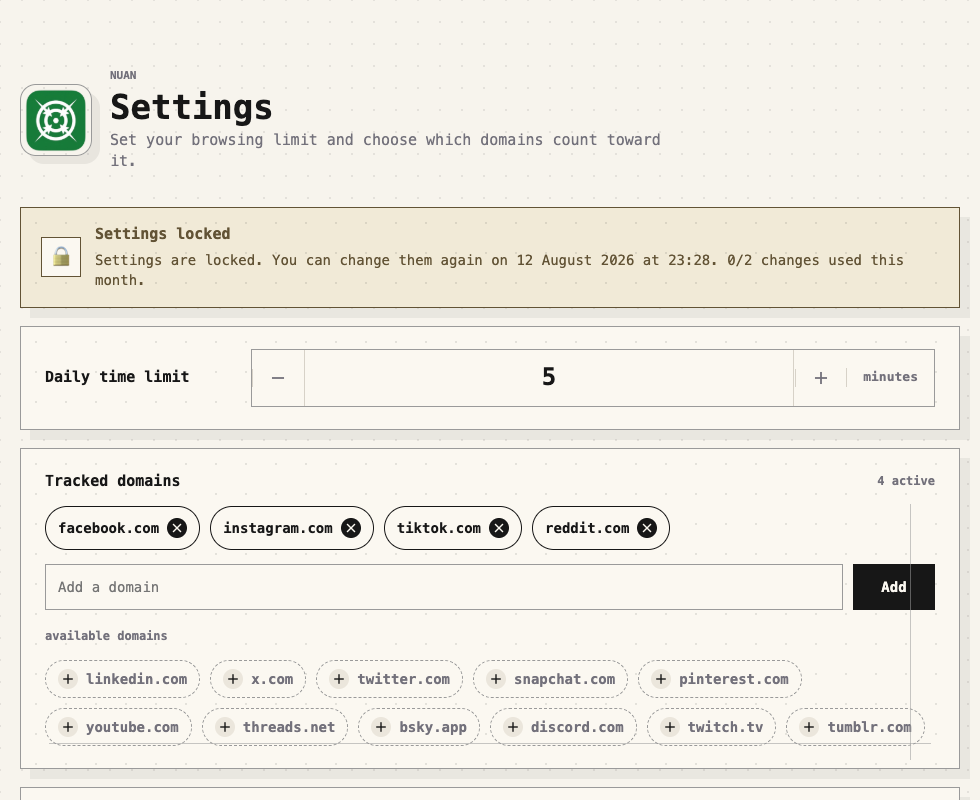
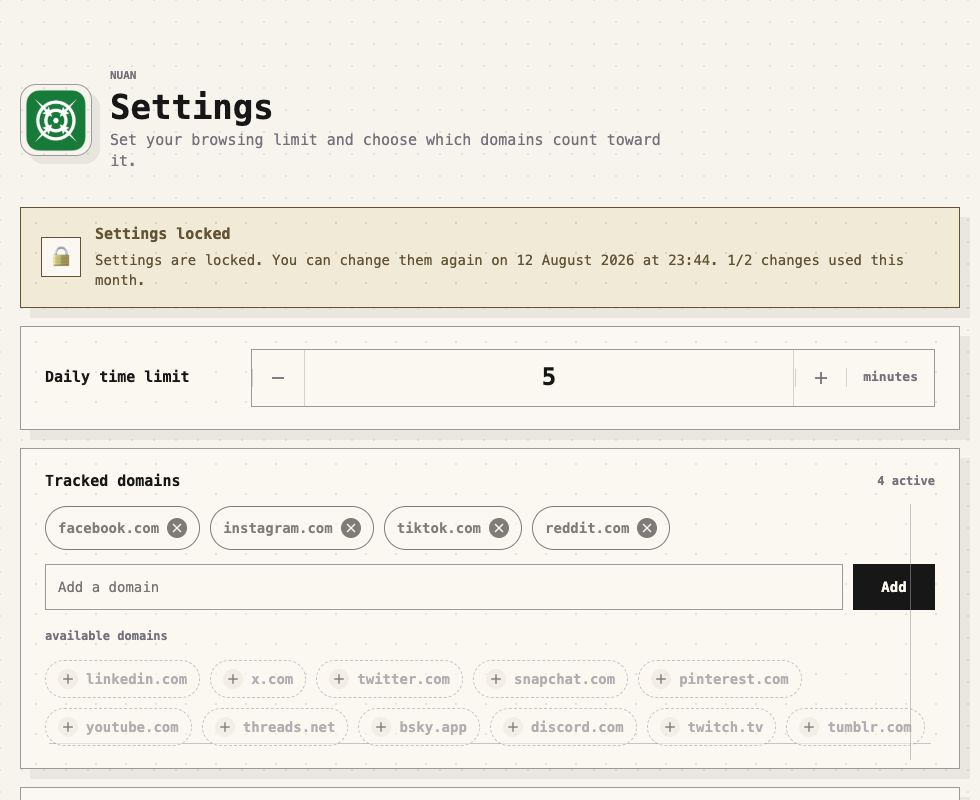
refactor: apply settings-lock review improvements
- background: coalesce settings+settingsLock write; pass fresh updatedLock to summary; prefer shared lock constants with literal fallbacks
- core.js: monthly block reports start of next month as nextChangeAt; cap lastChangeAt to now in normalizer
- options: add role=status to lock banner, toggle data-locked on domains card, parallel settings fetch with non-blocking lock load
- tests: add applySettingsChange rollover unit test and monthly-limit e2e test; derive monthKey from current date
- capture script: wait for lock banner visibility
- docs: runtimeCache mirrors seven storage keys

diff --git a/src/background/background.js b/src/background/background.js
@@ -67,8 +67,8 @@ const DEFAULT_STATE = {
 };
 
 const RESET_INTERVAL_MS = 6 * 60 * 60 * 1000;
-const SETTINGS_CHANGE_LOCK_WEEK_MS = 7 * 24 * 60 * 60 * 1000;
-const SETTINGS_CHANGE_MONTH_LIMIT = 2;
+const SETTINGS_CHANGE_LOCK_WEEK_MS = Logic.SETTINGS_CHANGE_LOCK_WEEK_MS || (7 * 24 * 60 * 60 * 1000);
+const SETTINGS_CHANGE_MONTH_LIMIT = Logic.SETTINGS_CHANGE_MONTH_LIMIT || 2;
 const LEGACY_TICK_ALARM = "social-media-time-guard-tick";
 const ACTIVE_SYNC_ALARM = "nuan-active-sync";
 const SOCIAL_ENFORCE_ALARM = "nuan-social-enforce";
@@ -449,15 +449,13 @@ async function saveSettings(rawSettings) {
     };
   }
 
-  await setStorageIfChanged({ settings });
-
   const updatedLock = Logic.applySettingsChange
     ? Logic.applySettingsChange(runtimeCache.settingsLock, now)
     : applySettingsChangeFallback(runtimeCache.settingsLock, now);
-  await setStorageIfChanged({ settingsLock: updatedLock });
+  await setStorageIfChanged({ settings, settingsLock: updatedLock });
 
   await processActiveContext({ reason: "settings-saved" });
-  return { ok: true, settings, lock: await getLockSummary(now) };
+  return { ok: true, settings, lock: await getLockSummary(now, updatedLock) };
 }
 
 async function saveBrowsingAnalyticsSettings(rawSettings = {}) {
@@ -1119,31 +1117,30 @@ function normalizeSettings(settings = {}) {
   };
 }
 
-function computeMonthlyUsed(now = Date.now()) {
-  const lock = runtimeCache?.settingsLock || DEFAULT_SETTINGS_LOCK;
+function computeMonthlyUsed(now = Date.now(), lock = runtimeCache?.settingsLock || DEFAULT_SETTINGS_LOCK) {
   const currentMonth = Logic.getMonthKey
     ? Logic.getMonthKey(now)
     : getMonthKeyFallback(now);
   return lock.monthKey === currentMonth ? lock.monthlyChanges : 0;
 }
 
-async function getLockSummary(now = Date.now()) {
+async function getLockSummary(now = Date.now(), lock = runtimeCache.settingsLock) {
   const check = Logic.isSettingsChangeAllowed
-    ? Logic.isSettingsChangeAllowed(runtimeCache.settingsLock, now)
-    : isSettingsChangeAllowedFallback(runtimeCache.settingsLock, now);
+    ? Logic.isSettingsChangeAllowed(lock, now)
+    : isSettingsChangeAllowedFallback(lock, now);
   return {
     allowed: check.allowed,
     reason: check.reason,
     nextChangeAt: check.nextChangeAt,
     monthKey: check.monthKey,
-    monthlyUsed: computeMonthlyUsed(now),
+    monthlyUsed: computeMonthlyUsed(now, lock),
     monthlyLimit: SETTINGS_CHANGE_MONTH_LIMIT
   };
 }
 
-function normalizeSettingsLock(lock) {
+function normalizeSettingsLock(lock, now = Date.now()) {
   if (Logic.normalizeSettingsLock) {
-    return Logic.normalizeSettingsLock(lock);
+    return Logic.normalizeSettingsLock(lock, now);
   }
 
   const normalized = {
@@ -1151,7 +1148,8 @@ function normalizeSettingsLock(lock) {
     monthlyChanges: 0,
     monthKey: null
   };
-  normalized.lastChangeAt = Number.isFinite(lock?.lastChangeAt) ? Math.max(0, lock.lastChangeAt) : null;
+  const rawLastChangeAt = Number.isFinite(lock?.lastChangeAt) ? Math.max(0, lock.lastChangeAt) : null;
+  normalized.lastChangeAt = rawLastChangeAt === null ? null : Math.min(rawLastChangeAt, now);
   normalized.monthlyChanges = Math.max(0, Number.parseInt(lock?.monthlyChanges, 10) || 0);
   normalized.monthKey =
     typeof lock?.monthKey === "string" && /^\d{4}-\d{2}$/.test(lock.monthKey) ? lock.monthKey : null;
@@ -1163,13 +1161,18 @@ function getMonthKeyFallback(now = Date.now()) {
   return `${date.getFullYear()}-${String(date.getMonth() + 1).padStart(2, "0")}`;
 }
 
+function getNextMonthStartFallback(now = Date.now()) {
+  const date = new Date(now);
+  return new Date(date.getFullYear(), date.getMonth() + 1, 1, 0, 0, 0, 0).getTime();
+}
+
 function isSettingsChangeAllowedFallback(lock, now = Date.now()) {
-  const normalized = normalizeSettingsLock(lock);
+  const normalized = normalizeSettingsLock(lock, now);
   const monthKey = getMonthKeyFallback(now);
   const monthlyChanges = normalized.monthKey === monthKey ? normalized.monthlyChanges : 0;
 
   if (monthlyChanges >= SETTINGS_CHANGE_MONTH_LIMIT) {
-    return { allowed: false, reason: "monthly", nextChangeAt: null, monthKey };
+    return { allowed: false, reason: "monthly", nextChangeAt: getNextMonthStartFallback(now), monthKey };
   }
 
   if (normalized.lastChangeAt && now < normalized.lastChangeAt + SETTINGS_CHANGE_LOCK_WEEK_MS) {
@@ -1180,7 +1183,7 @@ function isSettingsChangeAllowedFallback(lock, now = Date.now()) {
 }
 
 function applySettingsChangeFallback(lock, now = Date.now()) {
-  const normalized = normalizeSettingsLock(lock);
+  const normalized = normalizeSettingsLock(lock, now);
   const monthKey = getMonthKeyFallback(now);
   normalized.monthlyChanges = (normalized.monthKey === monthKey ? normalized.monthlyChanges : 0) + 1;
   normalized.monthKey = monthKey;

diff --git a/tests/e2e/extension-smoke.spec.js b/tests/e2e/extension-smoke.spec.js
@@ -61,9 +61,11 @@ test("settings lock keeps values visible but disables editing", async ({ extensi
 
   await options.evaluate(async () => {
     const now = Date.now();
+    const current = new Date();
+    const monthKey = `${current.getFullYear()}-${String(current.getMonth() + 1).padStart(2, "0")}`;
     await chrome.storage.local.set({
       settings: { limitMinutes: 5, domains: ["facebook.com", "instagram.com"] },
-      settingsLock: { lastChangeAt: now - 1000, monthlyChanges: 1, monthKey: "2099-12" }
+      settingsLock: { lastChangeAt: now - 1000, monthlyChanges: 1, monthKey }
     });
   });
   await options.reload();
@@ -76,6 +78,28 @@ test("settings lock keeps values visible but disables editing", async ({ extensi
   await expect(options.locator("form button[type='submit']")).toBeDisabled();
 });
 
+test("settings lock shows monthly-limit banner when monthly cap is reached", async ({ extensionPage }) => {
+  const options = await extensionPage("src/ui/options/options.html");
+  await clearExtensionStorage(options);
+  await options.reload();
+
+  await options.evaluate(async () => {
+    const now = Date.now();
+    const current = new Date();
+    const monthKey = `${current.getFullYear()}-${String(current.getMonth() + 1).padStart(2, "0")}`;
+    await chrome.storage.local.set({
+      settings: { limitMinutes: 5, domains: ["facebook.com", "instagram.com"] },
+      settingsLock: { lastChangeAt: now - 10 * 24 * 60 * 60 * 1000, monthlyChanges: 2, monthKey }
+    });
+  });
+  await options.reload();
+
+  await expect(options.locator("#settingsLockBanner")).toBeVisible();
+  await expect(options.locator("#settingsLockBanner")).toContainText("2/2");
+  await expect(options.locator("#limitMinutes")).toBeDisabled();
+  await expect(options.locator("form button[type='submit']")).toBeDisabled();
+});
+
 test("settings lock allows a change after the weekly window", async ({ extensionPage }) => {
   const options = await extensionPage("src/ui/options/options.html");
   await clearExtensionStorage(options);
@@ -83,9 +107,11 @@ test("settings lock allows a change after the weekly window", async ({ extension
 
   await options.evaluate(async () => {
     const now = Date.now();
+    const current = new Date();
+    const monthKey = `${current.getFullYear()}-${String(current.getMonth() + 1).padStart(2, "0")}`;
     await chrome.storage.local.set({
       settings: { limitMinutes: 5, domains: ["facebook.com", "instagram.com"] },
-      settingsLock: { lastChangeAt: now - 10 * 24 * 60 * 60 * 1000, monthlyChanges: 0, monthKey: "2099-12" }
+      settingsLock: { lastChangeAt: now - 10 * 24 * 60 * 60 * 1000, monthlyChanges: 0, monthKey }
     });
   });
   await options.reload();

diff --git a/src/shared/logic/core.js b/src/shared/logic/core.js
@@ -375,6 +375,11 @@
     return `${date.getFullYear()}-${String(date.getMonth() + 1).padStart(2, "0")}`;
   }
 
+  function getNextMonthStart(now = Date.now()) {
+    const date = new Date(now);
+    return new Date(date.getFullYear(), date.getMonth() + 1, 1, 0, 0, 0, 0).getTime();
+  }
+
   function createDefaultSettingsLock() {
     return {
       lastChangeAt: null,
@@ -383,9 +388,10 @@
     };
   }
 
-  function normalizeSettingsLock(lock = {}) {
+  function normalizeSettingsLock(lock = {}, now = Date.now()) {
     const normalized = createDefaultSettingsLock();
-    normalized.lastChangeAt = Number.isFinite(lock.lastChangeAt) ? Math.max(0, lock.lastChangeAt) : null;
+    const rawLastChangeAt = Number.isFinite(lock.lastChangeAt) ? Math.max(0, lock.lastChangeAt) : null;
+    normalized.lastChangeAt = rawLastChangeAt === null ? null : Math.min(rawLastChangeAt, now);
     normalized.monthlyChanges = Math.max(0, Number.parseInt(lock.monthlyChanges, 10) || 0);
     normalized.monthKey = typeof lock.monthKey === "string" && /^\d{4}-\d{2}$/.test(lock.monthKey)
       ? lock.monthKey
@@ -394,7 +400,7 @@
   }
 
   function isSettingsChangeAllowed(lock, now = Date.now()) {
-    const normalized = normalizeSettingsLock(lock);
+    const normalized = normalizeSettingsLock(lock, now);
     const monthKey = getMonthKey(now);
     const monthlyChanges = normalized.monthKey === monthKey ? normalized.monthlyChanges : 0;
 
@@ -402,7 +408,7 @@
       return {
         allowed: false,
         reason: "monthly",
-        nextChangeAt: null,
+        nextChangeAt: getNextMonthStart(now),
         monthKey
       };
     }
@@ -425,7 +431,7 @@
   }
 
   function applySettingsChange(lock, now = Date.now()) {
-    const normalized = normalizeSettingsLock(lock);
+    const normalized = normalizeSettingsLock(lock, now);
     const monthKey = getMonthKey(now);
     const monthlyChanges = normalized.monthKey === monthKey ? normalized.monthlyChanges : 0;
 
@@ -452,6 +458,7 @@
     getMonthKey,
     getNextBrowsingBoundary,
     getNextLocalDayStart,
+    getNextMonthStart,
     getNoUseStreakDays,
     isExcludedDomain,
     isSettingsChangeAllowed,

diff --git a/src/ui/options/options.js b/src/ui/options/options.js
@@ -174,11 +174,11 @@ document.addEventListener("keydown", (event) => {
 async function loadSettings() {
   let settings;
   let browsingSettings;
-  let lock;
   try {
-    settings = await NuanRuntime.sendMessage({ type: "getSettings" });
-    browsingSettings = await NuanRuntime.sendMessage({ type: "getBrowsingSettings" });
-    lock = await NuanRuntime.sendMessage({ type: "getSettingsLock" });
+    [settings, browsingSettings] = await Promise.all([
+      NuanRuntime.sendMessage({ type: "getSettings" }),
+      NuanRuntime.sendMessage({ type: "getBrowsingSettings" })
+    ]);
   } catch (error) {
     const errorMessage = error?.message || "Unable to load settings.";
     message.textContent = errorMessage;
@@ -192,6 +192,13 @@ async function loadSettings() {
   browsingAnalyticsEnabled.checked = browsingSettings.enabled;
   excludedDomains.value = browsingSettings.excludedDomains.join("\n");
   renderDomains();
+
+  let lock;
+  try {
+    lock = await NuanRuntime.sendMessage({ type: "getSettingsLock" });
+  } catch (_error) {
+    return;
+  }
 
   if (lock?.ok) {
     lockState = { allowed: lock.allowed, monthlyUsed: lock.monthlyUsed, monthlyLimit: lock.monthlyLimit, nextChangeAt: lock.nextChangeAt };
@@ -365,6 +372,15 @@ function applyLockState() {
   const submitButton = form.querySelector("button[type='submit']");
   if (submitButton) {
     submitButton.disabled = locked;
+  }
+
+  const domainsCard = form.querySelector(".domains-card");
+  if (domainsCard) {
+    if (locked) {
+      domainsCard.dataset.locked = "true";
+    } else {
+      delete domainsCard.dataset.locked;
+    }
   }
 
   if (!locked) {

diff --git a/scripts/capture-options-screenshots.js b/scripts/capture-options-screenshots.js
@@ -43,13 +43,16 @@ const outDir = path.resolve(__dirname, "../resources/screenshots");
   // Locked state
   await page.evaluate(async () => {
     const now = Date.now();
+    const current = new Date();
+    const monthKey = `${current.getFullYear()}-${String(current.getMonth() + 1).padStart(2, "0")}`;
     await chrome.storage.local.set({
       settings: { limitMinutes: 5, domains: ["facebook.com", "instagram.com", "tiktok.com", "reddit.com"] },
-      settingsLock: { lastChangeAt: now - 2 * 24 * 60 * 60 * 1000, monthlyChanges: 1, monthKey: "2099-12" }
+      settingsLock: { lastChangeAt: now - 2 * 24 * 60 * 60 * 1000, monthlyChanges: 1, monthKey }
     });
   });
   await page.reload();
-  await page.waitForTimeout(600);
+  await page.locator("#settingsLockBanner").waitFor({ state: "visible" });
+  await page.waitForTimeout(300);
   await page.screenshot({ path: path.join(outDir, "settings-locked.png") });
 
   await context.close();

diff --git a/tests/unit/logic.test.js b/tests/unit/logic.test.js
@@ -163,6 +163,15 @@ test("applySettingsChange increments monthly count and stamps last change", () =
   assert.equal(lock.monthKey, "2026-01");
 });
 
+test("applySettingsChange resets the monthly count when the month changes", () => {
+  const now = new Date(2026, 1, 5, 12, 0, 0).getTime();
+  const lock = logic.applySettingsChange({ lastChangeAt: now - 8 * 24 * 60 * 60 * 1000, monthlyChanges: 2, monthKey: "2026-01" }, now);
+
+  assert.equal(lock.lastChangeAt, now);
+  assert.equal(lock.monthlyChanges, 1);
+  assert.equal(lock.monthKey, "2026-02");
+});
+
 test("normalizes a missing or malformed settings lock", () => {
   assert.deepEqual(logic.normalizeSettingsLock(undefined), logic.createDefaultSettingsLock());
   assert.equal(logic.normalizeSettingsLock({ lastChangeAt: "bad", monthlyChanges: -5, monthKey: 2 }).monthlyChanges, 0);

diff --git a/src/ui/options/options.html b/src/ui/options/options.html
@@ -21,7 +21,7 @@
       </header>
 
       <form id="settingsForm">
-        <div id="settingsLockBanner" class="lock-banner" hidden>
+        <div id="settingsLockBanner" class="lock-banner" role="status" hidden>
           <div class="lock-banner-icon" aria-hidden="true">&#128274;</div>
           <div>
             <p class="lock-banner-title">Settings locked</p>

diff --git a/docs/ARCHITECTURE.md b/docs/ARCHITECTURE.md
@@ -192,7 +192,7 @@ sequenceDiagram
 
 ### Hydration Rules
 
-- `runtimeCache` mirrors the six storage keys after first hydration.
+- `runtimeCache` mirrors the seven storage keys after first hydration.
 - `hydratePromise` prevents duplicate parallel storage reads during cold start.
 - `chrome.storage.onChanged` updates the cache when local storage changes.
 - `setStorageIfChanged()` deep-compares normalized values and skips unchanged writes.
